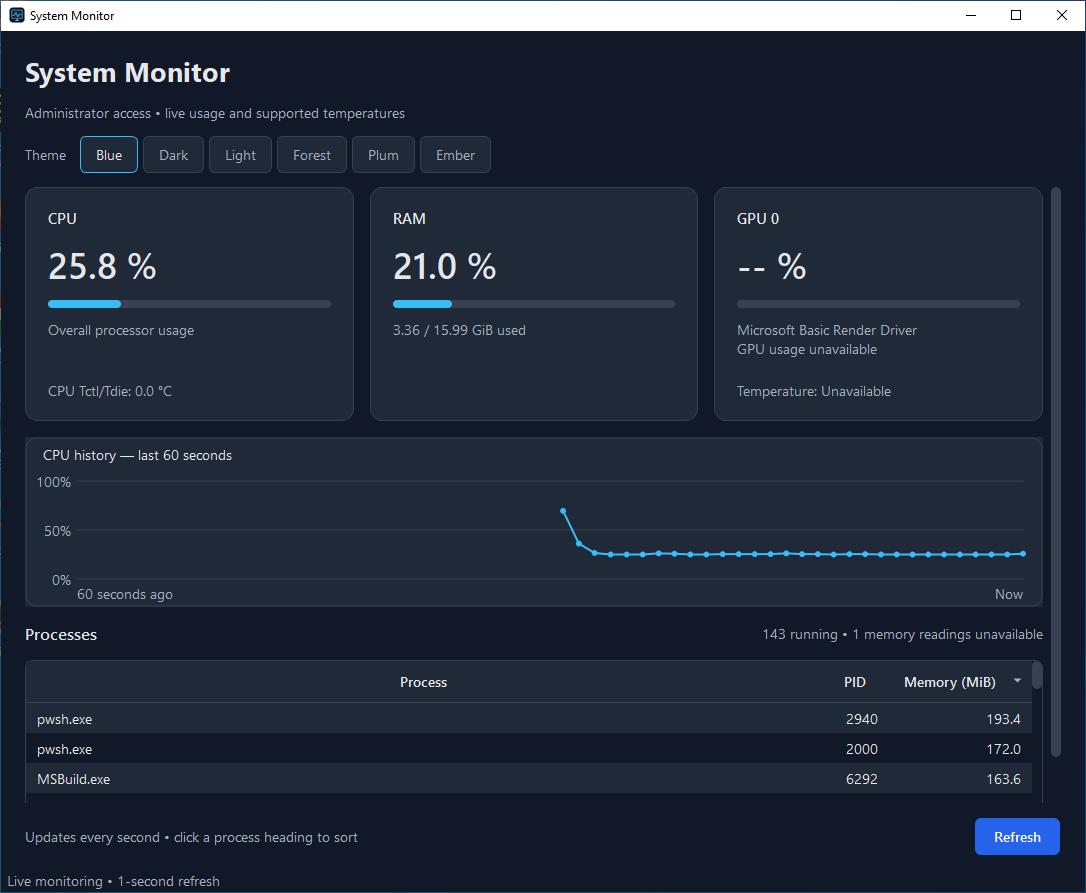
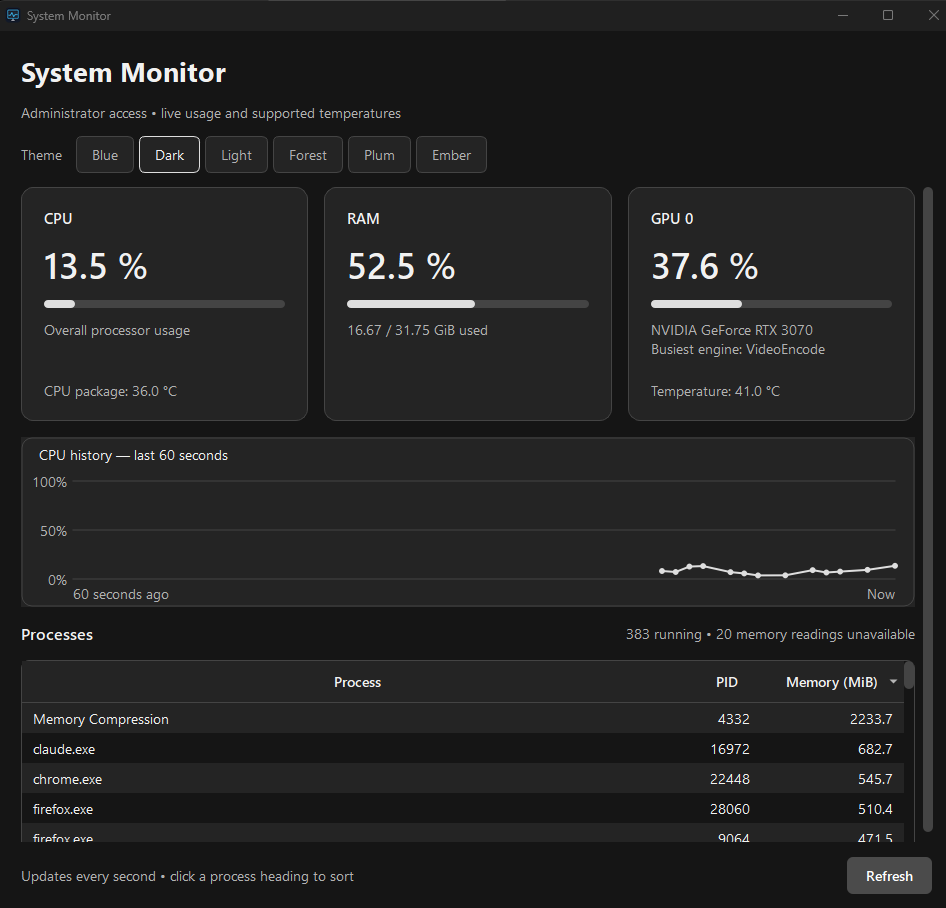
docs: use a dashboard screenshot from real hardware
Replace the CI-runner captures, which had no GPU or temperature sensors.

Claude-Session: https://claude.ai/code/session_01Aabt5qiYRAMw5rSbUVYpEL

Changed region(s): [[0.0, 0.1209, 1.0, 1.0], [0.0, 0.0, 1.0, 0.0907]]

diff --git a/README.md b/README.md
@@ -7,7 +7,7 @@ A native Windows desktop system monitor built with C++17 and Qt 6 Widgets.
 
 System Monitor shows live CPU, memory and GPU usage, CPU and GPU temperatures, a rolling CPU history graph and a sortable process list. Slow collectors run on a background worker thread, so the interface stays responsive while it refreshes every second.
 
-![Dashboard](screenshots/dashboard.png)
+![System Monitor dashboard in the Dark theme, showing live CPU, RAM and GPU usage with temperatures](screenshots/dashboard.png)
 
 ## Features
 
@@ -27,12 +27,6 @@ System Monitor shows live CPU, memory and GPU usage, CPU and GPU temperatures, a
 - **Build:** CMake, Ninja or Visual Studio, PowerShell build scripts
 - **Testing:** CTest
 - **CI:** GitHub Actions on Windows (MSVC, Qt 6.8)
-
-## Screenshots
-
-| Light theme | Plum theme |
-| --- | --- |
-| ![Dashboard in the Light theme](screenshots/theme-light.png) | ![Dashboard in the Plum theme](screenshots/theme-plum.png) |
 
 ## Getting Started
 
